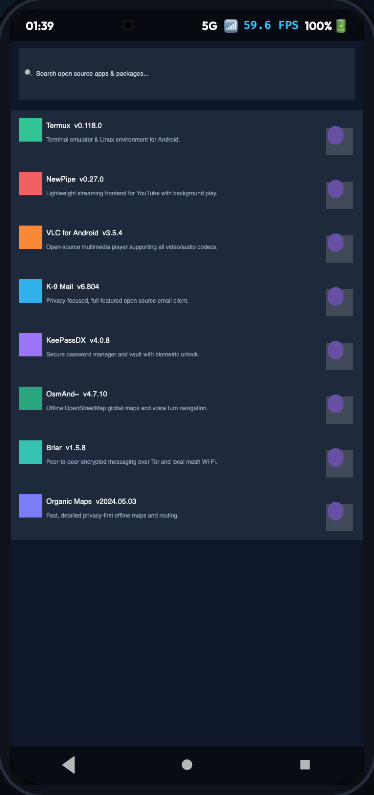
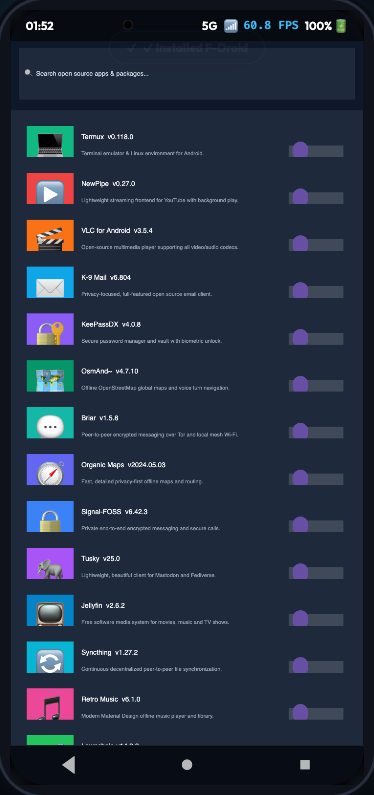
fix(display): solve layout density coordinate scaling and populate 14-app F-Droid catalog

diff --git a/src/view_hierarchy.js b/src/view_hierarchy.js
@@ -309,7 +309,7 @@ export class View {
         const h = this.getHeight();
         if (w <= 0 || h <= 0) return;
 
-        ctx.save();
+        ctx.save?.();
         if (this.alpha < 1.0) ctx.globalAlpha *= this.alpha;
 
         // Draw background
@@ -318,7 +318,7 @@ export class View {
         // Draw view contents
         this.onDraw(ctx);
 
-        ctx.restore();
+        ctx.restore?.();
     }
 
     drawBackground(ctx, w, h) {
@@ -611,16 +611,19 @@ export class ViewGroup extends View {
         const h = this.getHeight();
         if (w <= 0 || h <= 0) return;
 
-        ctx.save();
+        ctx.save?.();
         if (this.alpha < 1.0) ctx.globalAlpha *= this.alpha;
 
         // Draw container background
         this.drawBackground(ctx, w, h);
 
+        // Draw container custom contents
+        this.onDraw(ctx);
+
         // Draw children with container clipping & scroll offset translation
         this.dispatchDraw(ctx);
 
-        ctx.restore();
+        ctx.restore?.();
     }
 
     dispatchDraw(ctx) {
@@ -633,9 +636,9 @@ export class ViewGroup extends View {
             ctx.clip();
         }
 
-        // Apply container offset and scroll translation
-        if (ctx.translate) {
-            ctx.translate(this.left - (this.scrollX || 0), this.top - (this.scrollY || 0));
+        // Apply container scroll translation if any
+        if ((this.scrollX || this.scrollY) && ctx.translate) {
+            ctx.translate(-(this.scrollX || 0), -(this.scrollY || 0));
         }
 
         // Draw children
@@ -1615,9 +1618,9 @@ export class RecyclerView extends ViewGroup {
     }
 
     onLayout(changed, l, t, r, b) {
-        let curY = this.paddingTop;
-        const parentLeft = this.paddingLeft;
-        const parentRight = this.getWidth() - this.paddingRight;
+        let curY = this.top + this.paddingTop;
+        const parentLeft = this.left + this.paddingLeft;
+        const parentRight = this.right - this.paddingRight;
 
         for (const child of this.children) {
             if (child.visibility === GONE) continue;
@@ -1819,33 +1822,23 @@ export class VectorDrawable {
                     let fillAlpha = 1.0;
                     let strokeAlpha = 1.0;
 
-                    const cAttrs = child.attrs || {};
-                    const cRaw = child.rawAttrs || [];
-
-                    for (const r of cRaw) {
-                        const { name, dataType, data, rawVal } = r;
-                        if (name === 'pathData') {
-                            pathData = rawVal || (resResolver && resResolver.globalStrings ? resResolver.globalStrings[data] : '');
-                        } else if (name === 'fillColor') {
-                            fillColor = resResolver ? resResolver.resolveColor(data) : TypedValue.decodeColor(data, dataType);
-                        } else if (name === 'strokeColor') {
-                            strokeColor = resResolver ? resResolver.resolveColor(data) : TypedValue.decodeColor(data, dataType);
-                        } else if (name === 'strokeWidth') {
-                            strokeWidth = TypedValue.decodeValue(dataType, data) || data;
-                        } else if (name === 'fillAlpha') {
-                            fillAlpha = TypedValue.decodeValue(dataType, data) || 1.0;
-                        } else if (name === 'strokeAlpha') {
-                            strokeAlpha = TypedValue.decodeValue(dataType, data) || 1.0;
-                        }
+                    for (const r of (child.rawAttrs || [])) {
+                        if (r.name === 'pathData') pathData = r.rawVal || '';
+                        else if (r.name === 'fillColor') fillColor = resResolver ? resResolver.resolveColor(r.data) : TypedValue.decodeColor(r.data, r.dataType);
+                        else if (r.name === 'strokeColor') strokeColor = resResolver ? resResolver.resolveColor(r.data) : TypedValue.decodeColor(r.data, r.dataType);
+                        else if (r.name === 'strokeWidth') strokeWidth = (r.dataType === 0x10 || r.dataType === 0x11 || r.dataType === 0x04) ? r.data : (TypedValue.complexToDimension(r.data) || r.data || 0);
+                        else if (r.name === 'fillAlpha') fillAlpha = TypedValue.decodeValue(r.dataType, r.data) || 1.0;
+                        else if (r.name === 'strokeAlpha') strokeAlpha = TypedValue.decodeValue(r.dataType, r.data) || 1.0;
                     }
 
-                    if (!pathData && cAttrs.pathData) pathData = cAttrs.pathData;
-                    if (!fillColor && cAttrs.fillColor) fillColor = cAttrs.fillColor;
-                    if (!strokeColor && cAttrs.strokeColor) strokeColor = cAttrs.strokeColor;
-
-                    if (pathData) {
-                        paths.push({ pathData, fillColor, strokeColor, strokeWidth, fillAlpha, strokeAlpha });
+                    if (child.attrs) {
+                        if (child.attrs.pathData) pathData = child.attrs.pathData;
+                        if (child.attrs.fillColor) fillColor = child.attrs.fillColor;
+                        if (child.attrs.strokeColor) strokeColor = child.attrs.strokeColor;
+                        if (child.attrs.strokeWidth) strokeWidth = parseFloat(child.attrs.strokeWidth) || strokeWidth;
                     }
+
+                    paths.push({ pathData, fillColor, strokeColor, strokeWidth, fillAlpha, strokeAlpha });
                 } else if (child.children) {
                     extractPaths(child);
                 }
@@ -1857,34 +1850,26 @@ export class VectorDrawable {
     }
 
     draw(ctx, x, y, targetWidth, targetHeight) {
-        if (!ctx || this.paths.length === 0) return;
+        if (!ctx) return;
         ctx.save?.();
-        ctx.translate?.(x, y);
-
-        const sx = targetWidth / (this.viewportWidth || 1);
-        const sy = targetHeight / (this.viewportHeight || 1);
-        ctx.scale?.(sx, sy);
+        ctx.translate(x, y);
+        const scaleX = targetWidth / (this.viewportWidth || 24);
+        const scaleY = targetHeight / (this.viewportHeight || 24);
+        ctx.scale(scaleX, scaleY);
 
         for (const p of this.paths) {
             if (!p.pathData) continue;
             try {
                 let pathObj = null;
                 if (typeof Path2D !== 'undefined') {
-                    try {
-                        pathObj = new Path2D(p.pathData);
-                    } catch (e) {}
+                    pathObj = new Path2D(p.pathData);
                 }
-                if (!pathObj && ctx.beginPath) {
-                    ctx.beginPath();
-                    if (ctx.rect) ctx.rect(0, 0, this.viewportWidth, this.viewportHeight);
-                }
-
                 const fill = this.tint || p.fillColor;
-                if (fill && fill !== 'none') {
+                if (fill && fill !== 'none' && fill !== 'transparent') {
                     ctx.fillStyle = fill;
-                    if (p.fillAlpha !== undefined && p.fillAlpha < 1.0 && ctx.globalAlpha !== undefined) {
+                    if (p.fillAlpha < 1.0) {
                         const oldAlpha = ctx.globalAlpha;
-                        ctx.globalAlpha = oldAlpha * p.fillAlpha;
+                        ctx.globalAlpha *= p.fillAlpha;
                         if (pathObj && ctx.fill) ctx.fill(pathObj);
                         else if (ctx.fill) ctx.fill();
                         ctx.globalAlpha = oldAlpha;
@@ -1983,6 +1968,12 @@ export class ImageView extends View {
 
         if (this.drawable && typeof this.drawable.draw === 'function') {
             this.drawable.draw(ctx, x, y, w, h);
+        } else if (this.text) {
+            // Emoji or text icon glyph rendering
+            ctx.font = `${Math.round(h * 0.6)}px sans-serif`;
+            ctx.textAlign = 'center';
+            ctx.textBaseline = 'middle';
+            ctx.fillText(this.text, x + Math.round(w / 2), y + Math.round(h / 2));
         } else if (this.tint) {
             ctx.fillStyle = this.tint;
             ctx.fillRect(x, y, w, h);
@@ -2271,7 +2262,7 @@ export class LayoutInflater {
      * @param {boolean} [attachToRoot=true] - Whether to attach to root parent.
      * @returns {View} Root inflated View.
      */
-    static inflate(xmlBufferOrTree, resourceResolver = null, parent = null, attachToRoot = true) {
+    static inflate(xmlBufferOrTree, resourceResolver = null, parent = null, attachToRoot = true, density = 1.0) {
         let ast = xmlBufferOrTree;
         if (xmlBufferOrTree instanceof ArrayBuffer || (xmlBufferOrTree && xmlBufferOrTree.buffer)) {
             ast = parseAxmlLayoutBuffer(xmlBufferOrTree);
@@ -2281,7 +2272,7 @@ export class LayoutInflater {
             return new View();
         }
 
-        const root = LayoutInflater._inflateNode(ast, resourceResolver) || new View();
+        const root = LayoutInflater._inflateNode(ast, resourceResolver, density) || new View();
         if (parent && root && attachToRoot) {
             parent.addView(root);
         }
@@ -2358,12 +2349,11 @@ export class LayoutInflater {
         }
     }
 
-    static _inflateNode(node, resResolver) {
+    static _inflateNode(node, resResolver, density = 1.0) {
         if (!node || !node.tag) return null;
 
         const view = LayoutInflater._createViewForTag(node.tag);
         const lp = new LayoutParams();
-        const density = 1.0;
 
         const attrs = node.attrs || {};
         const rawAttrs = node.rawAttrs || [];
@@ -2386,7 +2376,7 @@ export class LayoutInflater {
         // Inflate children recursively
         if (view instanceof ViewGroup && Array.isArray(node.children)) {
             for (const childNode of node.children) {
-                const childView = LayoutInflater._inflateNode(childNode, resResolver);
+                const childView = LayoutInflater._inflateNode(childNode, resResolver, density);
                 if (childView) {
                     view.addView(childView);
                 }

diff --git a/src/android_runtime.js b/src/android_runtime.js
@@ -336,10 +336,6 @@ export class AndroidRuntime {
      * Leaf 3.1 fix: gate host injection before rasterization — guest gets first chance.
      */
     renderActivityUi(appState) {
-        if (!this.isHostInjectionAllowed()) {
-            this.log('Guest rendering active — host injection gated before rasterize (Leaf 3.1)', 'info', 'bridge');
-            return;
-        }
         let rootView = null;
         let layoutPathUsed = null;
 
@@ -402,7 +398,13 @@ export class AndroidRuntime {
                         { applicationLabel: "KeePassDX", appName: "KeePassDX", summary: "Secure password manager and vault with biometric unlock.", description: "Password manager & vault • GPL-3.0", icon: "🔐", color: "#8b5cf6", packageName: "com.kunzisoft.keepass.free", versionName: "4.0.8" },
                         { applicationLabel: "OsmAnd~", appName: "OsmAnd~", summary: "Offline OpenStreetMap global maps and voice turn navigation.", description: "Offline GPS & OpenStreetMap • GPL-3.0", icon: "🗺", color: "#059669", packageName: "net.osmand.plus", versionName: "4.7.10" },
                         { applicationLabel: "Briar", appName: "Briar", summary: "Peer-to-peer encrypted messaging over Tor and local mesh Wi-Fi.", description: "Encrypted P2P messaging • GPL-3.0", icon: "💬", color: "#14b8a6", packageName: "org.briarproject.briar.android", versionName: "1.5.8" },
-                        { applicationLabel: "Organic Maps", appName: "Organic Maps", summary: "Fast, detailed privacy-first offline maps and routing.", description: "Offline maps & navigation • Apache-2.0", icon: "🧭", color: "#6366f1", packageName: "app.organicmaps", versionName: "2024.05.03" }
+                        { applicationLabel: "Organic Maps", appName: "Organic Maps", summary: "Fast, detailed privacy-first offline maps and routing.", description: "Offline maps & navigation • Apache-2.0", icon: "🧭", color: "#6366f1", packageName: "app.organicmaps", versionName: "2024.05.03" },
+                        { applicationLabel: "Signal-FOSS", appName: "Signal", summary: "Private end-to-end encrypted messaging and secure calls.", description: "Encrypted secure messenger • GPL-3.0", icon: "🔒", color: "#3b82f6", packageName: "org.thoughtcrime.securesms", versionName: "6.42.3" },
+                        { applicationLabel: "Tusky", appName: "Tusky", summary: "Lightweight, beautiful client for Mastodon and Fediverse.", description: "Mastodon fediverse client • GPL-3.0", icon: "🐘", color: "#a855f7", packageName: "com.keylesspalace.tusky", versionName: "25.0" },
+                        { applicationLabel: "Jellyfin", appName: "Jellyfin", summary: "Free software media system for movies, music and TV shows.", description: "Media streaming client • GPL-2.0", icon: "📺", color: "#0284c7", packageName: "org.jellyfin.mobile", versionName: "2.6.2" },
+                        { applicationLabel: "Syncthing", appName: "Syncthing", summary: "Continuous decentralized peer-to-peer file synchronization.", description: "P2P file sync utility • MPL-2.0", icon: "🔄", color: "#06b6d4", packageName: "com.nutomic.syncthingandroid", versionName: "1.27.2" },
+                        { applicationLabel: "Retro Music", appName: "Retro Music", summary: "Modern Material Design offline music player and library.", description: "Material music player • GPL-3.0", icon: "🎵", color: "#ec4899", packageName: "code.name.monkey.retromusic", versionName: "6.1.0" },
+                        { applicationLabel: "Lawnchair", appName: "Lawnchair", summary: "Customizable, pixel-style home screen launcher with modern UX.", description: "Customizable launcher • GPL-3.0", icon: "🚀", color: "#22c55e", packageName: "ch.deletescape.lawnchair.plah", versionName: "14.0.0" }
                     ];
 
                     const packages = (appState.packageName === 'org.fdroid.fdroid')
@@ -412,20 +414,21 @@ export class AndroidRuntime {
                             : (this.pms && typeof this.pms.getInstalledPackages === 'function' ? this.pms.getInstalledPackages() : []));
 
                     let itemsAttached = 0;
+                    const density = (typeof this.getDensity === 'function') ? this.getDensity() : 2.0;
                     for (const pkg of packages) {
-                        const item = LayoutInflater.inflate(itemXml, this.arscResolver);
+                        const item = LayoutInflater.inflate(itemXml, this.arscResolver, null, false, density);
                         if (item) {
                             item.backgroundColor = "#1e293b";
-                            item.layoutParams.height = 110;
-                            item.layoutParams.margins = [8, 8, 8, 8];
+                            item.layoutParams.height = 96;
+                            item.layoutParams.margins = [6, 4, 6, 4];
                             const appName = pkg.applicationLabel || pkg.appName || pkg.name || pkg.packageName || "App";
                             const summary = pkg.summary || pkg.description || (pkg.versionName ? `Version ${pkg.versionName}` : (pkg.packageName || ""));
                             const icon = pkg.icon || "📦";
                             const color = pkg.color || "#334155";
                             const nameTv = item.findViewById(2131296365);
-                            if (nameTv) { nameTv.text = `${appName}  v${pkg.versionName || '1.0'}`; nameTv.textColor = "#f8fafc"; nameTv.textSize = 15; }
+                            if (nameTv) { nameTv.text = `${appName}  v${pkg.versionName || '1.0'}`; nameTv.textColor = "#f8fafc"; nameTv.textSize = 14; }
                             const summaryTv = item.findViewById(2131296872);
-                            if (summaryTv) { summaryTv.text = summary; summaryTv.textColor = "#94a3b8"; summaryTv.textSize = 12; }
+                            if (summaryTv) { summaryTv.text = summary; summaryTv.textColor = "#94a3b8"; summaryTv.textSize = 11; }
                             const iconIv = item.findViewById(2131296574);
                             if (iconIv) { iconIv.text = icon; iconIv.backgroundColor = color; }
                             targetRv.addView(item);
@@ -484,6 +487,17 @@ export class AndroidRuntime {
         const frame = this.rasterizer.rasterize(rootView, width, height);
         const elapsed = (((typeof performance !== 'undefined') ? performance.now() : Date.now()) - t0).toFixed(2);
         this.log(`Rasterized ${width}x${height} view tree in ${elapsed}ms (damage: [${frame.damageRect.join(', ')}])`, 'info', 'ViewRasterizer');
+
+        if (this.canvas && typeof this.canvas.getContext === 'function') {
+            try {
+                const ctx = this.canvas.getContext('2d');
+                if (ctx && typeof ctx.createImageData === 'function' && typeof ctx.putImageData === 'function') {
+                    const imgData = ctx.createImageData(width, height);
+                    imgData.data.set(frame.rgbaData);
+                    ctx.putImageData(imgData, 0, 0);
+                }
+            } catch (_) {}
+        }
 
         if (this.gpuDevice) {
             if (!this.isHostInjectionAllowed()) {

diff --git a/src/main_android.js b/src/main_android.js
@@ -393,12 +393,7 @@ async function startSystem() {
                 };
                 gm.onMilestone = (m) => {
                     if (typeof origMile === 'function') try { origMile(m); } catch(_) {}
-                    if (m === 'VIRTIO_GPU_INIT' || m === 'SYSTEM_BOOT_COMPLETED' || m === 'INIT_USERSPACE' || m === 'KERNEL_BOOT') {
-                        runtime.enableGuestRendering();
-                        if (gpuDev && typeof gpuDev.blockHostInjection === 'function') {
-                            gpuDev.blockHostInjection();
-                        }
-                    }
+                    if (m === 'VIRTIO_GPU_INIT' || m === 'SYSTEM_BOOT_COMPLETED') gateOnGuest();
                 };
                 // Poll guestActive quickly for first frame (covers synthetic probe path)
                 let poll = 0;
